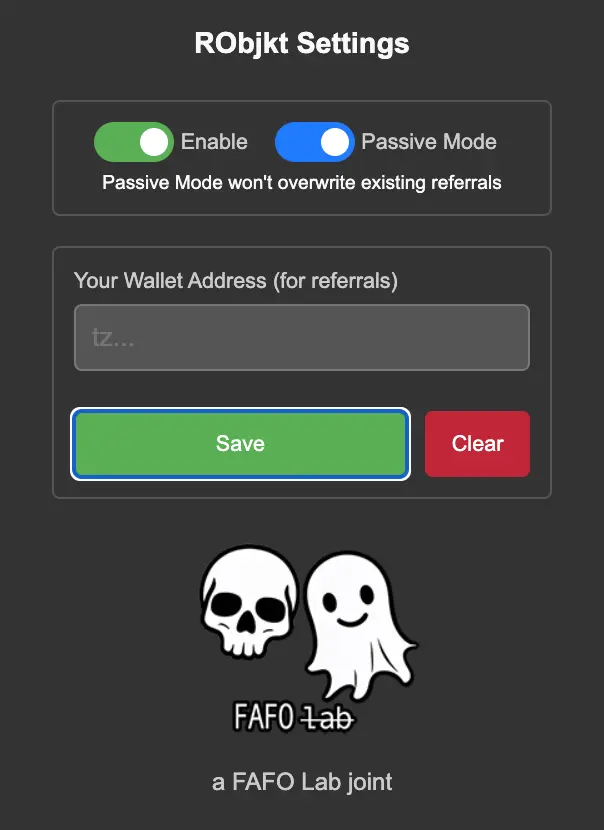
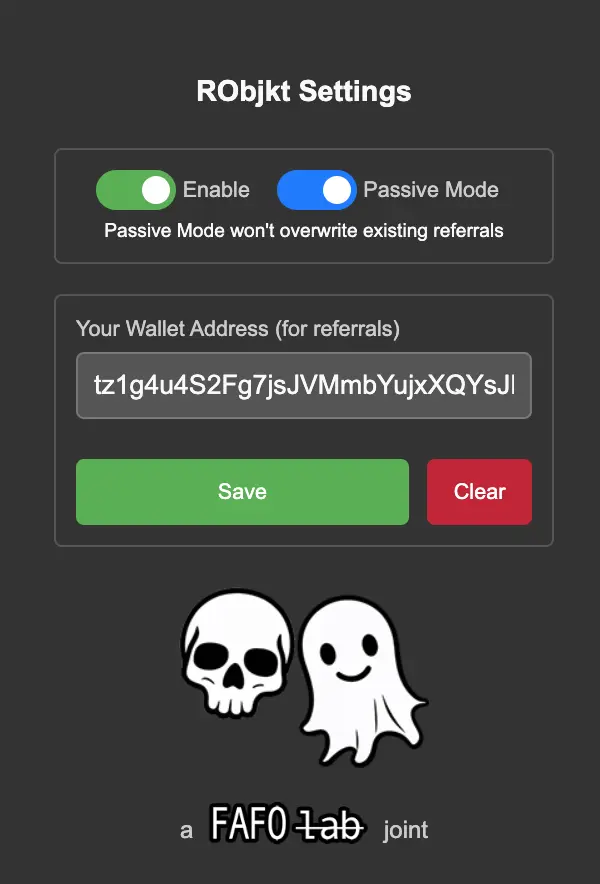
✨ Add new images for FAFO Lab branding in popup.html and update footer layout to enhance visual appeal

diff --git a/popup.html b/popup.html
@@ -36,8 +36,12 @@
             </div>
         </div>
         <footer class="footer">
-            <img src="fafo-logo-200.png" alt="FAFO Lab" width="125" />
-            a FAFO Lab joint
+            <img src="fafo-ghouls-200.png" alt="FAFO Lab ghouls" width="125" />
+            <span
+                >a
+                <img src="fafo-text-200.png" alt="FAFO Lab" height="25" style="padding: 0 4px; margin-bottom: -5px" />
+                joint</span
+            >
         </footer>
     </body>
 </html>
